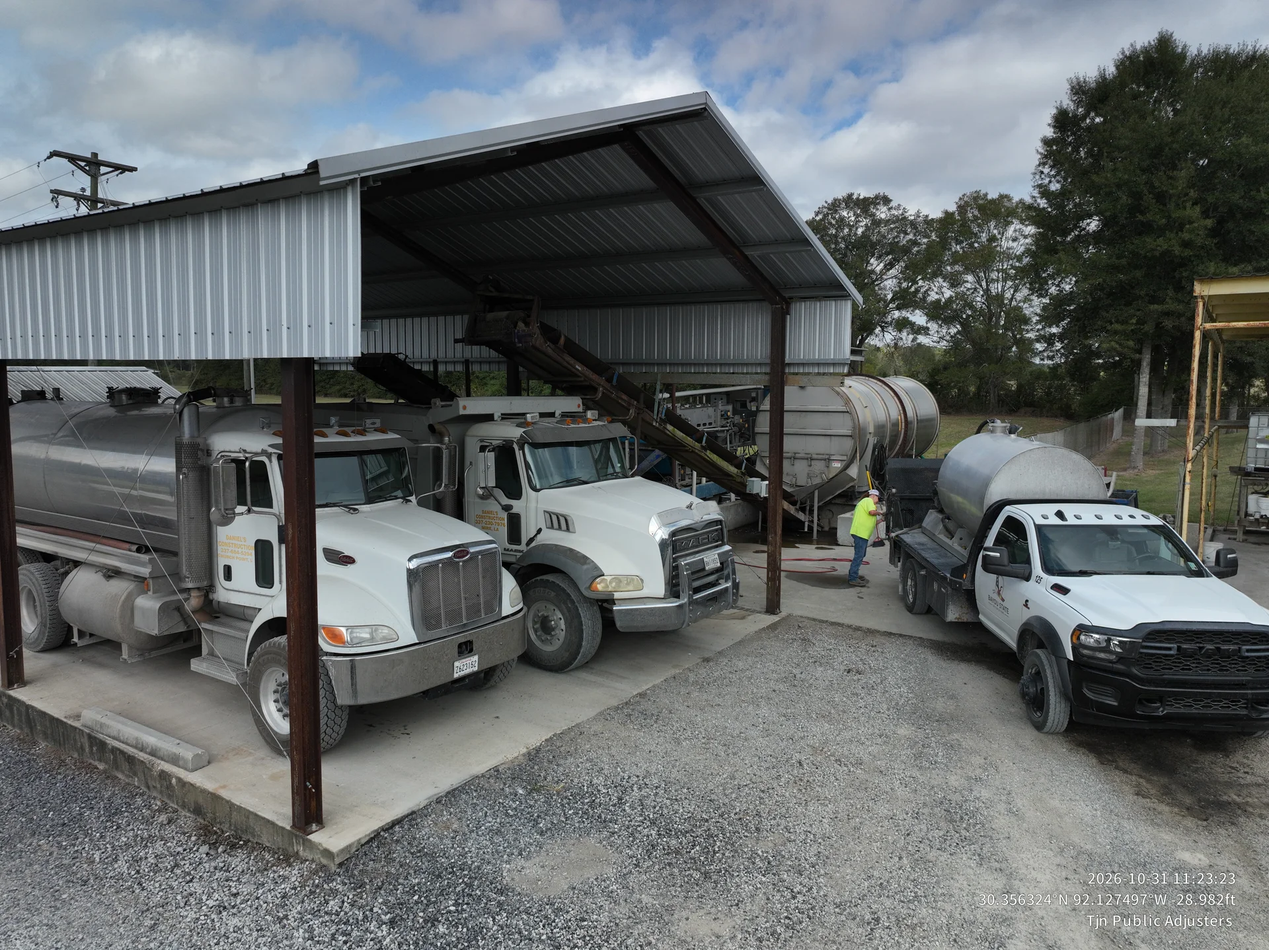
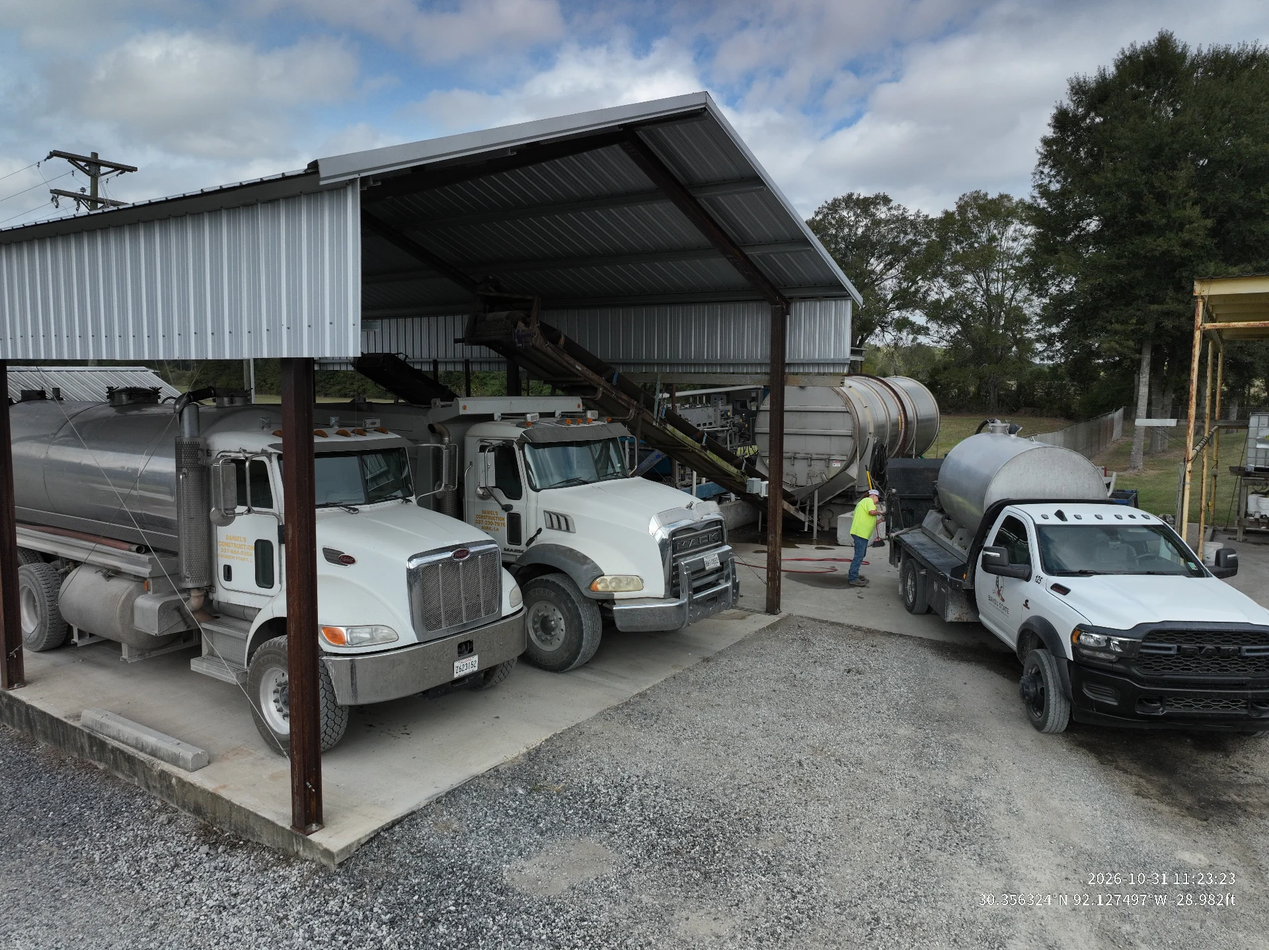
Remove Tjn Public Adjusters watermark from DJI drone photos

diff --git a/index.html b/index.html
@@ -238,7 +238,7 @@
               <img src="./assets/hq-main-building-flag-B7-ftMJq.jpg" alt="Main HQ Building &amp; Flag" loading="lazy" />
             </button>
             <button class="hero-thumb-btn" data-index="1" aria-label="View DJI Drone Aerial of 11751 LA-365 Complex">
-              <img src="./assets/aerial-facility-overview-Dou1URDj.jpg" alt="DJI Drone Aerial of Facility" loading="lazy" />
+              <img src="./assets/aerial-facility-overview-hVzjRb0k.jpg" alt="DJI Drone Aerial of Facility" loading="lazy" />
             </button>
             <button class="hero-thumb-btn" data-index="2" aria-label="View Peterbilt Vacuum Tanker &amp; Mack Dump Truck">
               <img src="./assets/peterbilt-and-mack-front-BUhYzXGf.jpg" alt="Peterbilt &amp; Mack Fleet" loading="lazy" />
@@ -421,7 +421,7 @@
           <!-- Photo 1: DJI Drone Aerial Overview -->
           <article class="fleet-card span-6" data-lightbox-index="1" data-fleet-category="aerial treatment">
             <div class="fleet-img-wrap">
-              <img src="./assets/aerial-facility-overview-Dou1URDj.jpg" alt="DJI Drone Aerial Overview of Wingate Treatment Site Septage Dumpsite at Duck Rd, Sunset LA (30.355829, -92.127946)" loading="lazy" />
+              <img src="./assets/aerial-facility-overview-hVzjRb0k.jpg" alt="DJI Drone Aerial Overview of Wingate Treatment Site Septage Dumpsite at Duck Rd, Sunset LA (30.355829, -92.127946)" loading="lazy" />
               <span class="fleet-unit-tag">DUMPSITE GPS // 30.355829, -92.127946</span>
               <span class="fleet-zoom-hint">🔍 Click to Enlarge</span>
             </div>
@@ -528,7 +528,7 @@
           <!-- Photo 6: Aerial Treatment Lagoons -->
           <article class="fleet-card span-4" data-lightbox-index="6" data-fleet-category="aerial treatment">
             <div class="fleet-img-wrap">
-              <img src="./assets/aerial-treatment-lagoons-B_W-fbXg.jpg" alt="DJI Drone View of Wingate Treatment Site Dewatering Building and Multi-Stage Lagoons" loading="lazy" />
+              <img src="./assets/aerial-treatment-lagoons-K3Bi-on9.jpg" alt="DJI Drone View of Wingate Treatment Site Dewatering Building and Multi-Stage Lagoons" loading="lazy" />
               <span class="fleet-unit-tag">LDEQ #LA0124893 // LAGOONS</span>
               <span class="fleet-zoom-hint">🔍 Enlarge</span>
             </div>
@@ -839,7 +839,7 @@
             </div>
 
             <div class="fleet-img-wrap" style="border-radius: var(--radius-md); border: 1px solid var(--border-gold); cursor: pointer;" data-lightbox-index="1">
-              <img src="./assets/aerial-facility-overview-Dou1URDj.jpg" alt="Aerial Drone Photo of Wingate Treatment Site Septage Dumpsite at 30.355829, -92.127946" loading="lazy" />
+              <img src="./assets/aerial-facility-overview-hVzjRb0k.jpg" alt="Aerial Drone Photo of Wingate Treatment Site Septage Dumpsite at 30.355829, -92.127946" loading="lazy" />
               <span class="fleet-unit-tag">DUCK RD, SUNSET LA // 30.355829, -92.127946</span>
               <span class="fleet-zoom-hint">🔍 Click for Full Aerial</span>
             </div>
